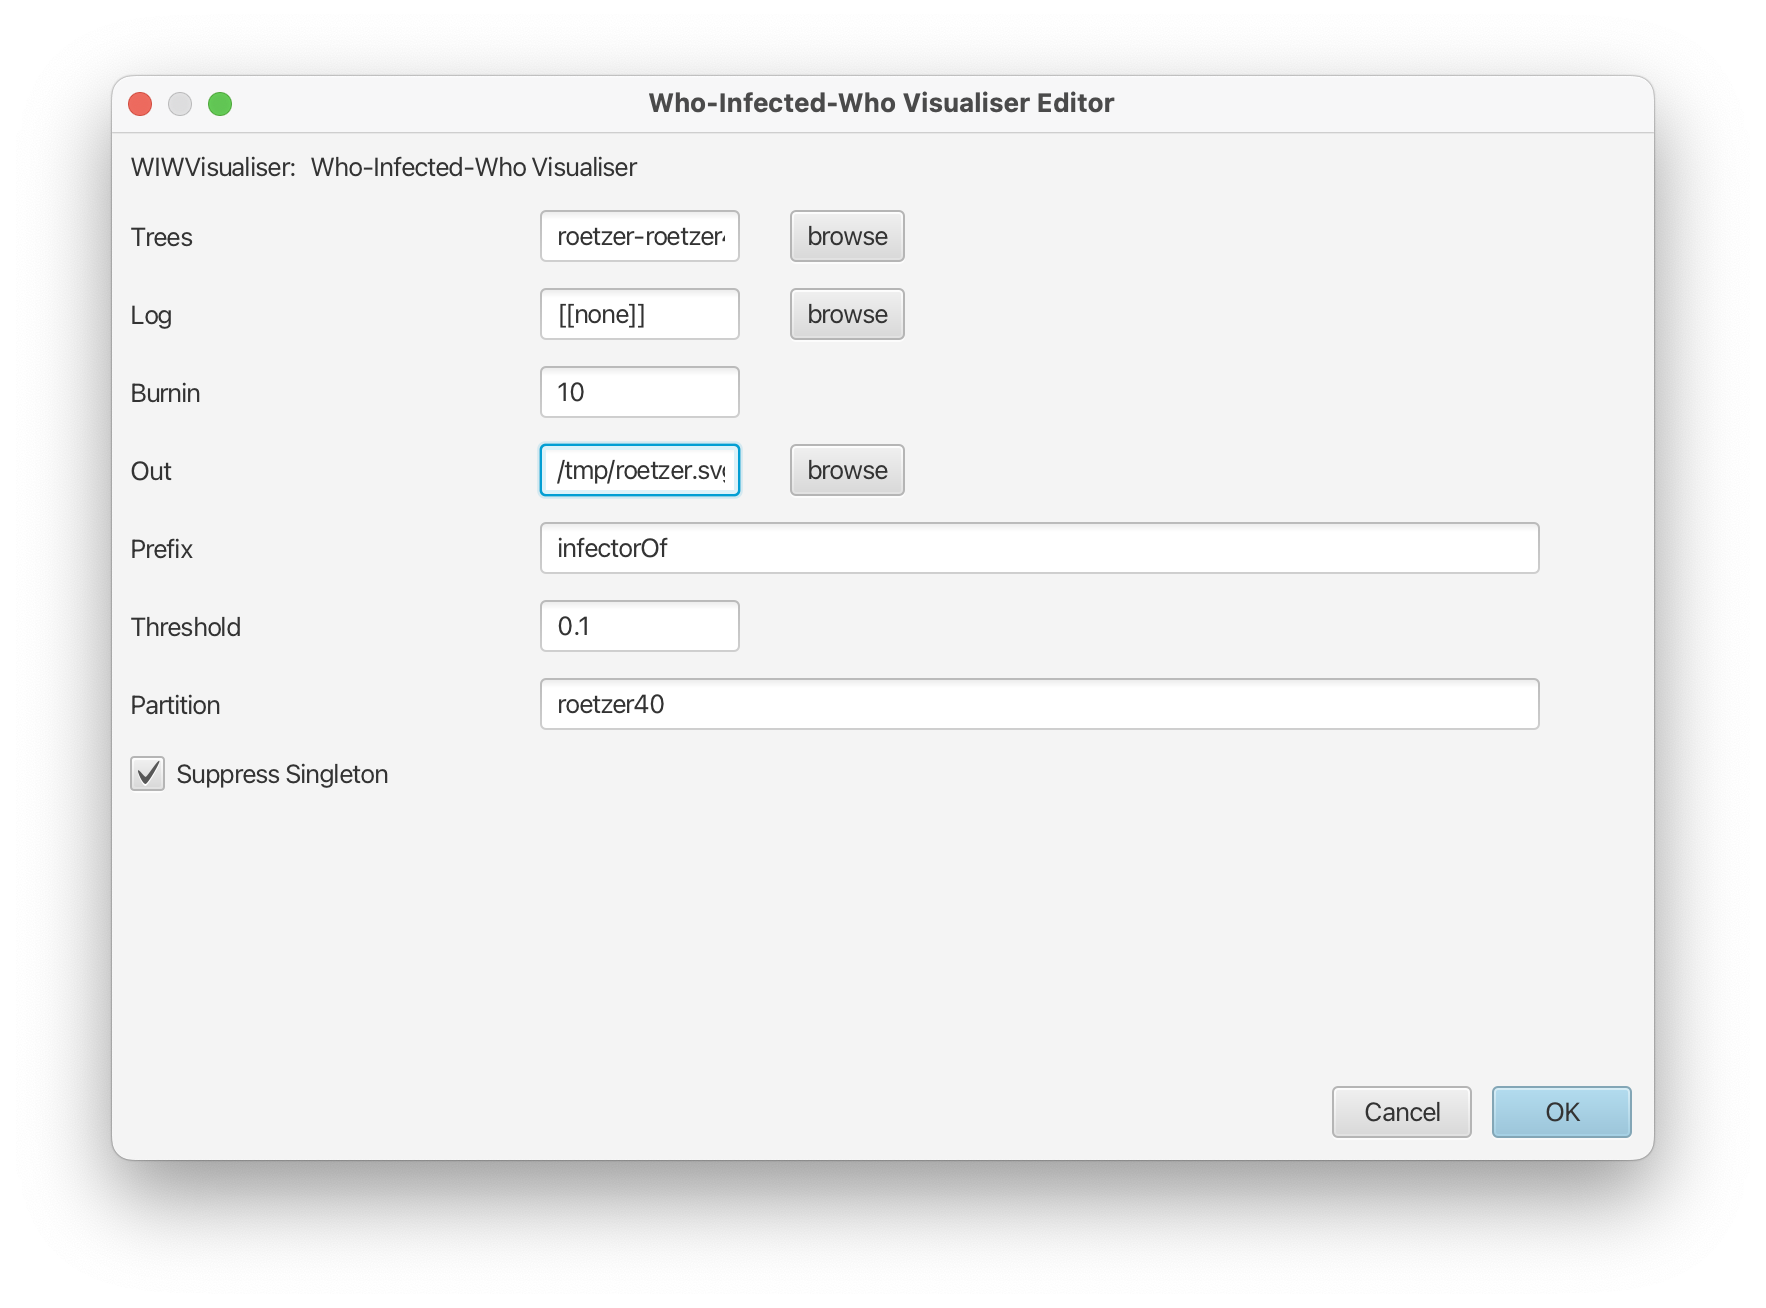
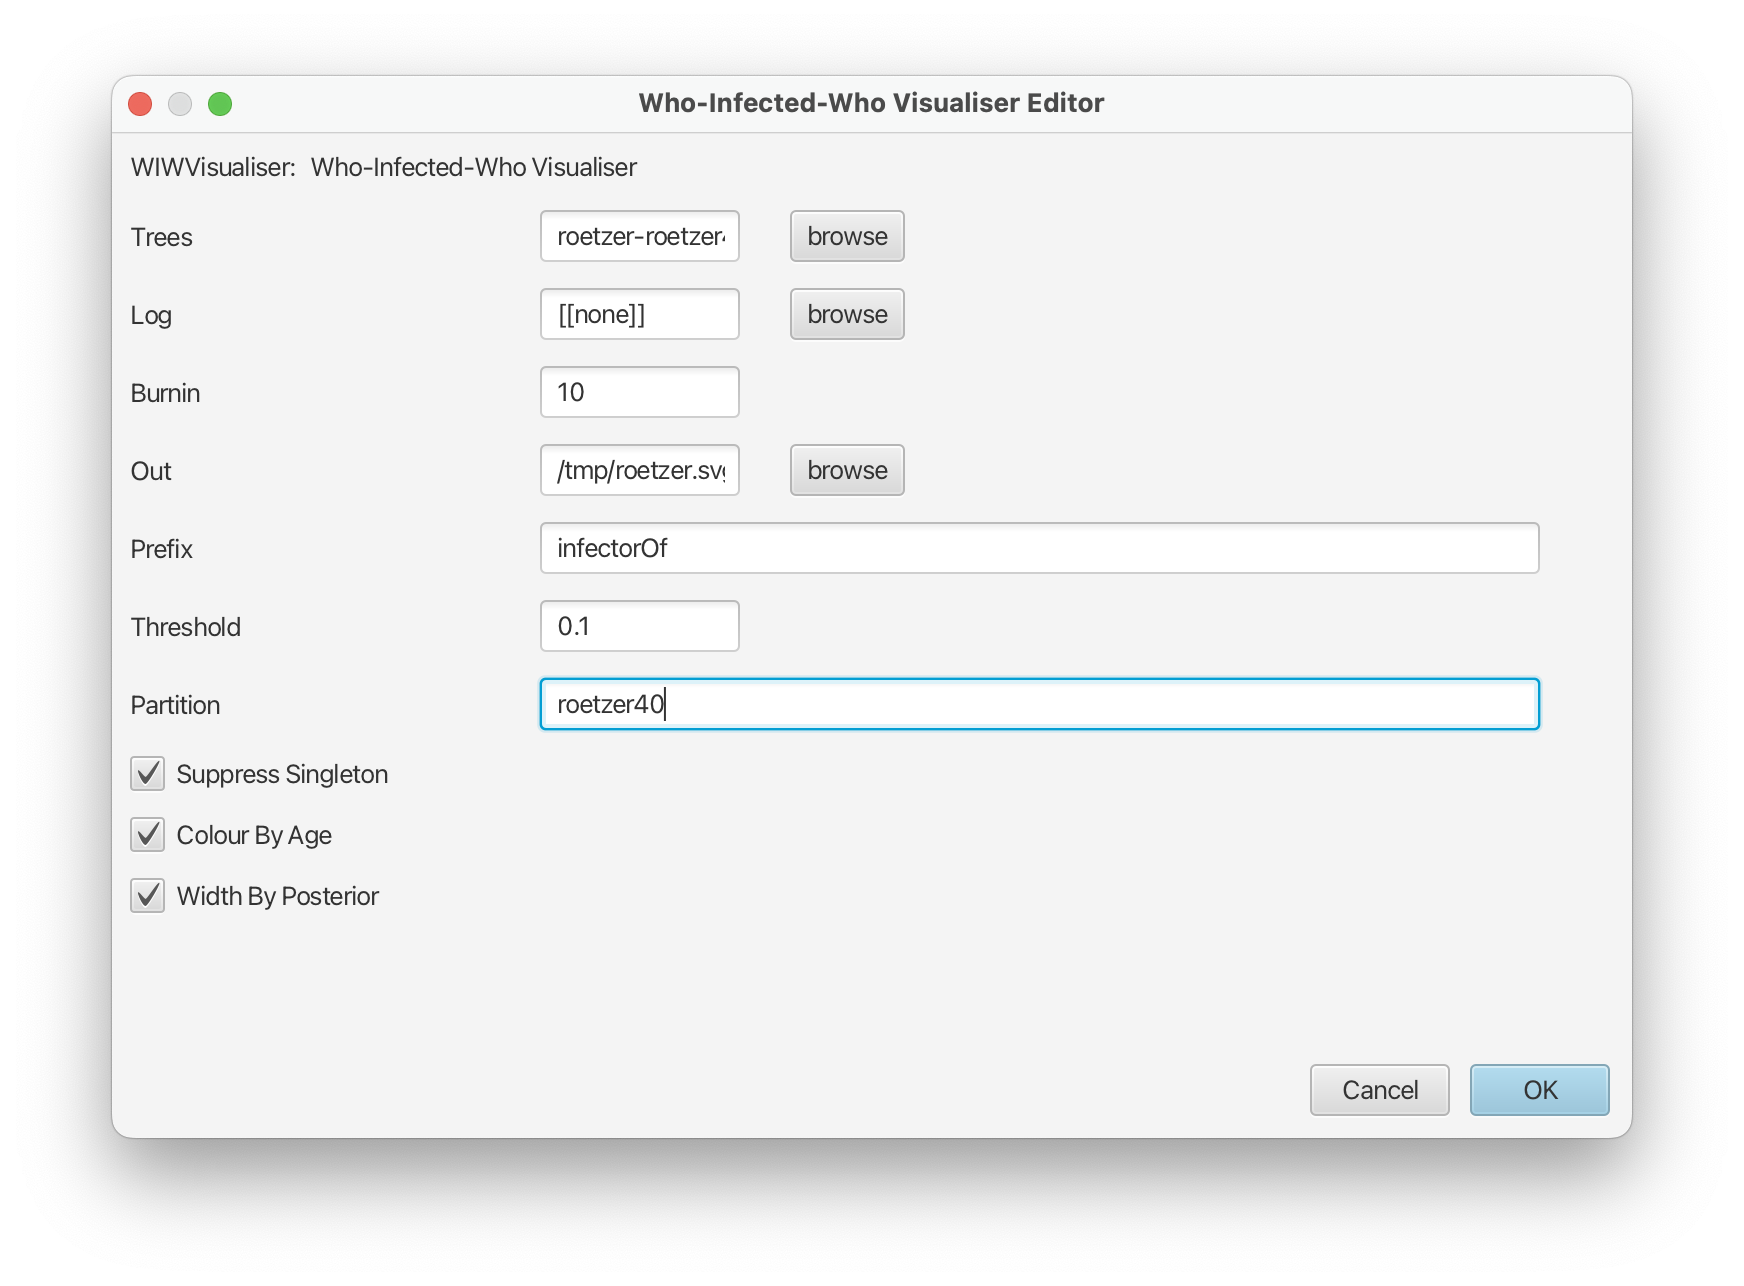
update tutorial

diff --git a/src/transmission/util/WIWVisualiser.java b/src/transmission/util/WIWVisualiser.java
@@ -1,11 +1,15 @@
 package transmission.util;
 
+import java.awt.Graphics;
+import java.awt.image.BufferedImage;
 import java.io.File;
 import java.io.FileWriter;
 import java.io.IOException;
 import java.text.DecimalFormat;
 import java.util.Arrays;
 import java.util.List;
+
+import javax.imageio.ImageIO;
 
 import org.graphper.api.Graphviz;
 import org.graphper.api.Graphviz.GraphvizBuilder;
@@ -17,6 +21,7 @@ import beastfx.app.tools.Application;
 import beastfx.app.util.LogFile;
 import beastfx.app.util.OutFile;
 import beastfx.app.util.TreeFile;
+import beastfx.app.util.Utils;
 import transmission.distribution.ColourProvider;
 import beast.base.core.Description;
 import beast.base.core.Input;
@@ -40,6 +45,11 @@ public class WIWVisualiser extends beast.base.inference.Runnable {
 	final public Input<Boolean> suppressSingletonInput = new Input<>("suppressSingleton", "do not show taxa that are not connected to any other taxa", true);
 	final public Input<Boolean> colourByAgeInput = new Input<>("colourByAge", "colour nodes in output by node age. All blacks if false", true);
 	final public Input<Boolean> widthByPosteriorInput = new Input<>("widthByPosterior", "draw line between nodes with widths proportional to posterior support", true);
+
+	final public Input<Float> saturationInput = new Input<>("saturation", "saturation used when colouring nodes.", 0.7f);
+	final public Input<Float> brightnessInput = new Input<>("brightness", "brightness used when colouring nodes.", 0.7f);
+
+	final static String DIR_SEPARATOR = (Utils.isWindows() ? "\\\\" : "/");
 
 	
 	@Override
@@ -192,7 +202,7 @@ public class WIWVisualiser extends beast.base.inference.Runnable {
 				String colourString = "#000";
 				Node node = null;
 				if (age != null) {
-					int c = java.awt.Color.HSBtoRGB((float)(age[i]/upper), 0.9f, 0.9f);
+					int c = java.awt.Color.HSBtoRGB((float)(age[i]/upper), saturationInput.get(), brightnessInput.get());
 					colourString = "#" + Integer.toHexString(c).substring(2);
 					Color colour = Color.ofRGB(colourString);
 					c = java.awt.Color.HSBtoRGB((float)(age[i]/upper), 0.5f, 0.9f);
@@ -227,16 +237,30 @@ public class WIWVisualiser extends beast.base.inference.Runnable {
 				if (i!=j && transitions[i][j] >= threshold) {
 					if (widthByPosteriorInput.get()) {
 						pen = transitions[i][j]*15;
+						dotty = dotty.addLine(Line.builder(nodes[j], nodes[i]).penWidth(pen)
+								.label(f.format(transitions[i][j]))
+								.build());
+					} else if (colourByAgeInput.get()) {
+						int c = java.awt.Color.HSBtoRGB((float)(transitions[i][j] * 0.5 + 0.5), saturationInput.get(), brightnessInput.get());
+						String colourString = "#" + Integer.toHexString(c).substring(2);
+						Color fillcolour = Color.ofRGB(colourString);
+						dotty = dotty.addLine(Line.builder(nodes[j], nodes[i])
+								.penWidth(2.0)
+								.color(fillcolour)
+								.fontColor(fillcolour)
+								.label(f.format(transitions[i][j]))
+								.build());
+					} else {
+						dotty = dotty.addLine(Line.builder(nodes[j], nodes[i])
+								.label(f.format(transitions[i][j]))
+								.build());
 					}
-					dotty = dotty.addLine(Line.builder(nodes[j], nodes[i]).penWidth(pen)
-							.label(f.format(transitions[i][j]))
-							.build());
 				}
 			}
 		}
 		
 		
-		System.out.println(dotty.build().toString());
+		// System.out.println(dotty.build().toString());
 		// create SVG
 		String svg = dotty.build().toSvgStr();
 
@@ -250,6 +274,28 @@ public class WIWVisualiser extends beast.base.inference.Runnable {
 		} catch (IOException e) {
 			e.printStackTrace();
 		}
+		
+		if (colourByAgeInput.get()) {
+			System.err.println("Writing legend " + outputInput.get().getParent() + DIR_SEPARATOR + "legend.png ");
+			BufferedImage image = new BufferedImage(200, 200, BufferedImage.TYPE_INT_RGB);
+	        Graphics g = image.getGraphics();
+	        g.setColor(java.awt.Color.white);
+	        g.fillRect(0, 0, 200, 200);
+	        
+	        for (int i = 0; i < 200; i++) {
+	        	double x = (200 - i) / 200.0;
+				g.setColor(java.awt.Color.getHSBColor((float) x, saturationInput.get(), brightnessInput.get()));
+	        	g.drawLine(25, i, 75, i);
+	        }
+			g.setColor(java.awt.Color.black);
+	        for (int i = 0; i < 10; i++) {
+	        	g.drawString(f.format(upper * (10 - i)/ 10), 100, 200*i/10);
+	        }
+			ImageIO.write(image, "png", new File((outputInput.get().getParent() != null ? outputInput.get().getParent() + DIR_SEPARATOR : "") + "legend.png"));
+			
+		}
+		
+		
 		System.err.println("Done");	
 	}
 	

diff --git a/doc/tutorial/README.md b/doc/tutorial/README.md
@@ -9,6 +9,21 @@ beastversion: 2.7.5
 
 # Background
 
+In a disease outbreak, knowledge about who-infected-who can be crucial in managing the trajectory of the epidemic.
+Since it is routine these days to sequence pathogens in serious outbreaks, it becomes appealing to use these sequences in making inferences about who-infected-who.
+The transmission tree model {% cite Colijn et al. 2024 %} allows simultaneous inference of the phylogeny of the pathogen and transmission amongst hosts, including unsampled hosts.
+This has a number of benefits over existing methods for inference who-infected-who:
+
+* It captures phylogenetic uncertainty impacting tranmission chains more accurately than when a phylogeny is inferred first, and then transmissions are inferred on a summary tree.
+* It provides a tree generating process that we can use as tree prior, thus more accurately describing our prior knowledge about how the phylogeny evolved than if we are using standard coalescent or birth-death based tree priors.
+* It can deal with hosts that were not sampled but are part of the transmission chain.
+
+There are some limitations that need to be taken in account:
+
+* Good knowledge about the transmission process is required in order to be able to specify the parameters of the transmission hazard -- one of the input for the transmission tree likelihood.
+* Likewise, good knowledge about the sampling process is required: what time does it take between a host getting infected and getting sampled, and what is the probability of being sampled. This information is required to specify the sampling hazard parameters.
+* If the goal of the analysis is to infer who-infected-who from the data, this kind of analysis assumes that the hosts are densely sampled, with at least 50% of the hosts being sampled. If fewer hosts are sampled, little information about the who-infected-who process can be inferred, though the method still can be used as tree prior.
+
 ----
 
 # Programs used in this Exercise
@@ -117,9 +132,23 @@ The transmission tree likelihood has the following components:
 * deltaStartTime: time at which the study start till root of tree (optional, default: 0). 
 * allowTransmissionsAfterSampling: flag to indicate sampling does not affect the probability of onwards transmissions. If false, no onwards transmissions are allowed (not clear how this affects the unknown unknowns though). (optional, default: true)
 * includeCoalescent: flag for debugging that includes contribution from coalescent to posterior if true (default: true).
-* population model: A constant size population is assumed for the coalescent process inside each host. The prior on the population size can be set.
 
-For more details, we refer to the paper.
+The two hazard functions probably need a bit of thought and knowledge to inform their parameters. For more details, we refer to the paper.
+
+
+### Hyperpriors
+
+The transmission tree prior comes with four hyperpriors: block start, end and count and tranmission population size
+
+* block start and end represent fractions on a branch, so should be in the interval from zero to 1 (and the associated parameters are bounded by these values). Be default, a uniform(0,1) prior is used. Unless you have good reasons to change, this can be left as is.
+* block counts represent how many infections take place in a block. 
+	* A value of -1 indicates there is not transmission on the branch
+	* A value of 0 indicates there is 1 transmission on the branch, block start and end have the same value and determine where on the branch the transmission takes place.
+	* A value of 1 or more indicates 1 or more transmissions happen in a block, one at block end and one at block start, so they block start and end differ for these branches.
+	So, values below -1 do not make sense, and values over 4 indicate 5 transmission happen on a branch. Note that this many transmissions only tend to happen when there are very long branches in the tree, and suggest a sampling probability of hosts being on the low side of where the transmission tree model makes sense.
+	The default prior is uniform in the range -1 to 4.
+* A constant size population is assumed for the coalescent process inside each host. Together with the sampling and transmission hazard they determine the length of branches, so be aware the population size prior and parameters of the hazard functions interact with each other.
+The prior on the population size is uniform [0, +Infinity] by default. If you observe a collapse of the tree during the MCMC coinciding with a collapsing value of the population size it may be worth increasing the value of the lower bound. For estimating marginal likelihoods through nested or path sampling, make sure to specify a reasonable upper bound in order to make the prior propper.
 
 
 Since we don't want the analysis to take too long, we only run for 5 million samples.
@@ -211,6 +240,8 @@ WIWVisualiser has the following options:
 * threshold (Double): probability threshold below which edges will be ignored. (optional, default: 0.1)
 * partition (String): name of the partition appended to `blockcount, blockend and blockstart` (optional)
 * suppressSingleton (Boolean): do not show taxa that are not connected to any otehr taxa (optional, default: true)
+* colourByAge (Boolean): colour nodes in output by node age. All blacks if false (default true)
+* widthByPosterior  (Boolean), draw line between nodes with widths proportional to posterior support (default true)
 
 ## Transmission Tree Statistics
 
